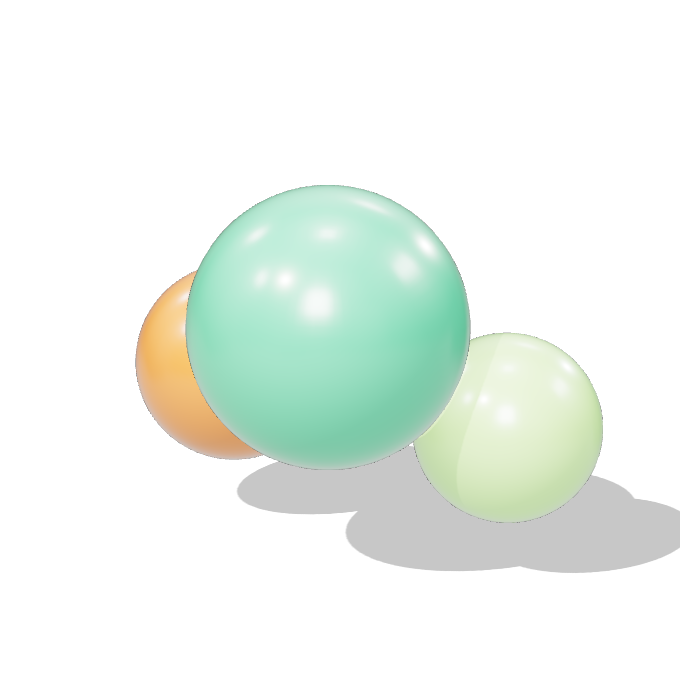
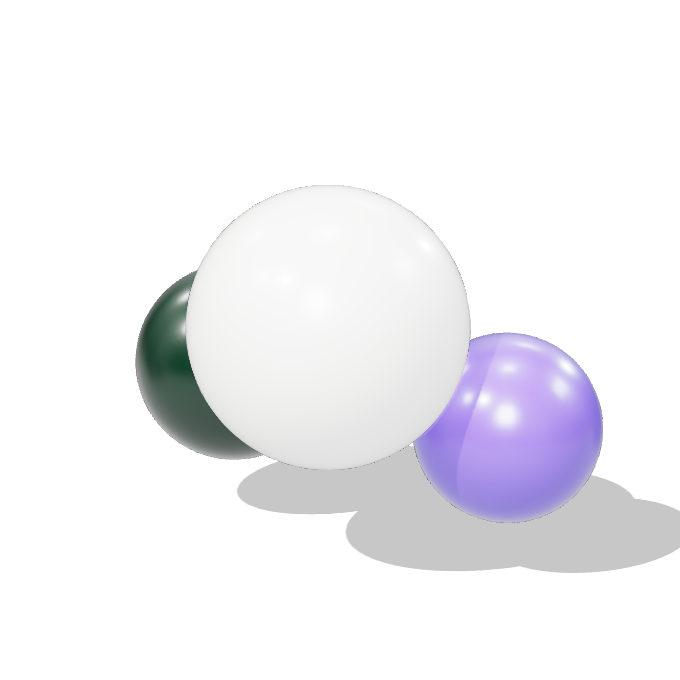
feat(tableau de bord): des couleurs franches, et le voile qui monte jusqu'en haut
Les quatre cases étaient en pastel délavé : ça manquait de vie. Vert
acide, orange chaud, violet profond, menthe soutenue — et l'encre change
avec le fond pour rester lisible. Les objets 3D sont re-rendus en
conséquence : un éclair vert forêt sur le vert acide, un sablier à
monture brune et sable clair sur l'orange, une pastille sombre dans le
lot des comptes. Un objet de la même couleur que sa case s'y noie.

Le voile de couleur restait recouvert en haut : peint dans la colonne qui
défile, il était rogné net juste sous la barre du haut, et cette coupure
barrait la page. Il est maintenant peint sur la feuille elle-même, qui
contient la barre — plus rien ne passe devant. La barre se signale par sa
classe plutôt que par un attribut de visite guidée, pour que l'aperçu en
profite aussi.

Changed region(s): [[0.1853, 0.2471, 0.8956, 0.7721]]

diff --git a/app/apercu-v2/page.tsx b/app/apercu-v2/page.tsx
@@ -26,10 +26,10 @@ const CLIENTS = [
 ];
 
 const STATS = [
-  { valeur: 3, libelle: 'À publier aujourd’hui', fond: 'linear-gradient(150deg, #E7F9D8, #CFF0B6)', objet: '/volumes/eclair.png', sub: 'Auto' },
-  { valeur: 3, libelle: 'En attente de validation', fond: 'linear-gradient(150deg, #FFF0DF, #FBDCBC)', objet: '/volumes/sablier.png' },
-  { valeur: 12, libelle: 'Planifiés', fond: 'linear-gradient(150deg, #EDEAFC, #DCD5F6)', objet: '/volumes/calendrier.png' },
-  { valeur: 10, libelle: 'Clients actifs', fond: 'linear-gradient(150deg, #E2F5EC, #C9EBDC)', objet: '/volumes/comptes.png' },
+  { valeur: 3, libelle: 'À publier aujourd’hui', fond: 'linear-gradient(148deg, #C4FF8F 0%, #7EE23F 100%)', encre: '#183B06', objet: '/volumes/eclair.png', sub: 'Auto' },
+  { valeur: 3, libelle: 'En attente de validation', fond: 'linear-gradient(148deg, #FFC978 0%, #FF7A2F 100%)', encre: '#4A1E02', objet: '/volumes/sablier.png' },
+  { valeur: 12, libelle: 'Planifiés', fond: 'linear-gradient(148deg, #9B87FF 0%, #5B45E0 100%)', encre: '#FFFFFF', objet: '/volumes/calendrier.png' },
+  { valeur: 10, libelle: 'Clients actifs', fond: 'linear-gradient(148deg, #5FEFC0 0%, #0FBF8A 100%)', encre: '#053427', objet: '/volumes/comptes.png' },
 ];
 
 const DEPARTS = [
@@ -46,7 +46,7 @@ export default function ApercuV2() {
       <Sidebar />
 
       <div style={{ flex: 1, display: 'flex', flexDirection: 'column', minWidth: 0, marginLeft: 'var(--sb-w)' }}>
-        <header className="topbar">
+        <header className="topbar topbar-voile">
           <span className="h-title" style={{ fontSize: 15, color: 'var(--ink-2)' }}>Aperçu de la refonte</span>
           <div style={{ marginLeft: 'auto', display: 'flex', gap: 10 }}>
             <button className="btn btn-ghost btn-sm">Calendrier</button>
@@ -81,7 +81,7 @@ export default function ApercuV2() {
 
             <div style={{ display: 'grid', gridTemplateColumns: 'repeat(4,1fr)', gap: 14, marginBottom: 14 }} className="dash-stats">
               {STATS.map(st => (
-                <div key={st.libelle} className="stat-case" style={{ background: st.fond }}>
+                <div key={st.libelle} className="stat-case" style={{ background: st.fond, color: st.encre }}>
                   <div className="stat-case-txt">
                     <div className="num stat-case-num">{st.valeur}</div>
                     <div className="stat-case-lab">{st.libelle}</div>

diff --git a/app/dashboard/page.tsx b/app/dashboard/page.tsx
@@ -704,7 +704,7 @@ export default function Dashboard() {
       <div style={{ flex: 1, display: 'flex', flexDirection: 'column', minWidth: 0, marginLeft: 'var(--sb-w)' }}>
 
         {/* Topbar */}
-        <header className="topbar" data-tour="dashboard">
+        <header className="topbar topbar-voile" data-tour="dashboard">
           <ClientSwitcher active={active} workspaces={workspaces} onChange={setActive} />
           <div style={{ width: 1, height: 24, background: 'var(--line)', flexShrink: 0 }} />
           <span className="h-title" style={{ fontSize: 15, whiteSpace: 'nowrap', color: 'var(--ink-2)' }}>{t('title')}</span>
@@ -824,15 +824,15 @@ export default function Dashboard() {
             {/* Stat tiles */}
             <div style={{ display: 'grid', gridTemplateColumns: 'repeat(4,1fr)', gap: 14, marginBottom: 14 }} className="dash-stats">
               <StatTile value={todayPosts} label={t('toPublishToday')} sub={t('statAuto')}
-                fond="linear-gradient(150deg, #E7F9D8, #CFF0B6)" objet="/volumes/eclair.png" />
+                fond="linear-gradient(148deg, #C4FF8F 0%, #7EE23F 100%)" encre="#183B06" objet="/volumes/eclair.png" />
               <StatTile value={pendingPosts} label={t('statPending')}
-                fond="linear-gradient(150deg, #FFF0DF, #FBDCBC)" objet="/volumes/sablier.png" />
+                fond="linear-gradient(148deg, #FFC978 0%, #FF7A2F 100%)" encre="#4A1E02" objet="/volumes/sablier.png" />
               <StatTile value={scheduledPosts} label={t('statScheduled')}
-                fond="linear-gradient(150deg, #EDEAFC, #DCD5F6)" objet="/volumes/calendrier.png" />
+                fond="linear-gradient(148deg, #9B87FF 0%, #5B45E0 100%)" encre="#FFFFFF" objet="/volumes/calendrier.png" />
               <StatTile
                 value={active === 'all' ? workspaces.length : 1}
                 label={active === 'all' ? t('statClients') : t('statConnected')}
-                fond="linear-gradient(150deg, #E2F5EC, #C9EBDC)" objet="/volumes/comptes.png" />
+                fond="linear-gradient(148deg, #5FEFC0 0%, #0FBF8A 100%)" encre="#053427" objet="/volumes/comptes.png" />
             </div>
 
             {/* All clients: workspace card grid */}

diff --git a/app/globals.css b/app/globals.css
@@ -2606,24 +2606,21 @@ aside.sidebar:not(.sidebar-bare) + * .topbar {
   margin: -30px -34px 16px;
   padding: 32px 34px 26px;
 }
-.dash-wash::before {
-  content: "";
-  position: absolute;
-  /* Le voile passait sous la barre du haut, ce qui dessinait une frontière en
-     travers de la page. Il remonte derrière elle : une seule surface colorée,
-     du bord haut de la feuille jusqu'au bas de l'accroche. */
-  top: -64px; bottom: 0;
-  left: 50%;
-  width: 100vw;
-  transform: translateX(-50%);
-  background:
-    radial-gradient(720px 340px at 12% -30%, rgba(189,242,160,.9), transparent 66%),
-    radial-gradient(620px 300px at 84% -22%, rgba(102,86,217,.2), transparent 68%),
-    radial-gradient(540px 280px at 50% -10%, rgba(47,215,155,.24), transparent 70%),
-    linear-gradient(180deg, #FCFDFA, var(--canvas) 92%);
-  pointer-events: none;
+/* Le voile appartient à la feuille, pas à la colonne de contenu : peint dans
+   la zone qui défile, il était rogné juste sous la barre du haut, et cette
+   coupure barrait la page. */
+aside.sidebar:not(.sidebar-bare) + div:has(> .topbar-voile) {
+  background-color: var(--canvas);
+  background-image:
+    radial-gradient(760px 420px at 12% 0%, rgba(189,242,160,.95), transparent 66%),
+    radial-gradient(640px 380px at 84% 0%, rgba(102,86,217,.24), transparent 68%),
+    radial-gradient(560px 340px at 50% 0%, rgba(47,215,155,.3), transparent 70%);
+  background-repeat: no-repeat;
+  background-position: top center;
+  background-size: 100% 440px;
 }
 .dash-wash > * { position: relative; z-index: 1; }
+.dash-wash { background: transparent; }
 .dash-title {
   position: relative;
   font-size: clamp(28px, 3.4vw, 42px);
@@ -2756,7 +2753,7 @@ aside.sidebar:not(.sidebar-bare) + * .topbar {
 
 /* Sur le tableau de bord, la barre du haut se pose SUR le voile : elle n'a donc
    ni fond ni filet, sinon elle recoupe la couleur en deux. */
-.topbar[data-tour="dashboard"] {
+.topbar-voile {
   background: transparent;
   border-bottom: 0;
   backdrop-filter: none;
